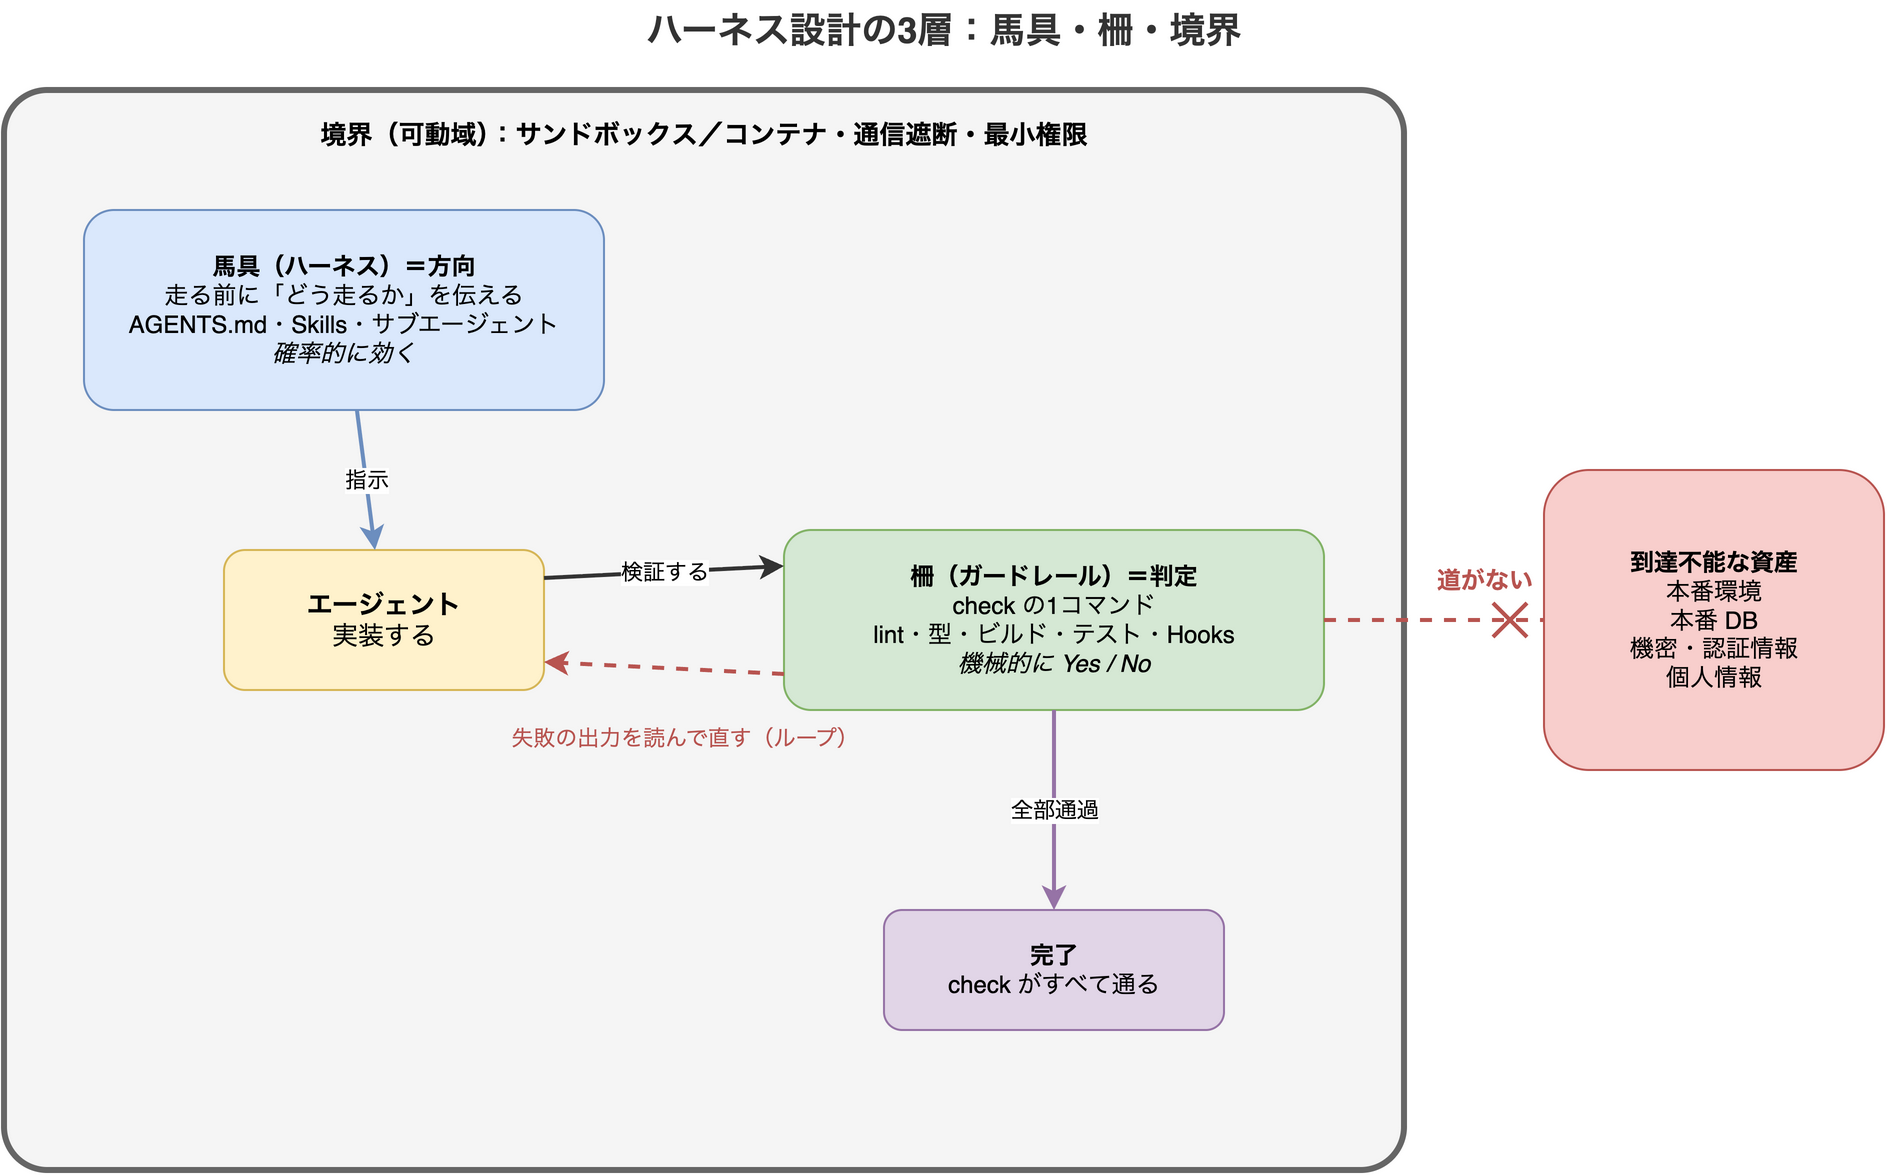
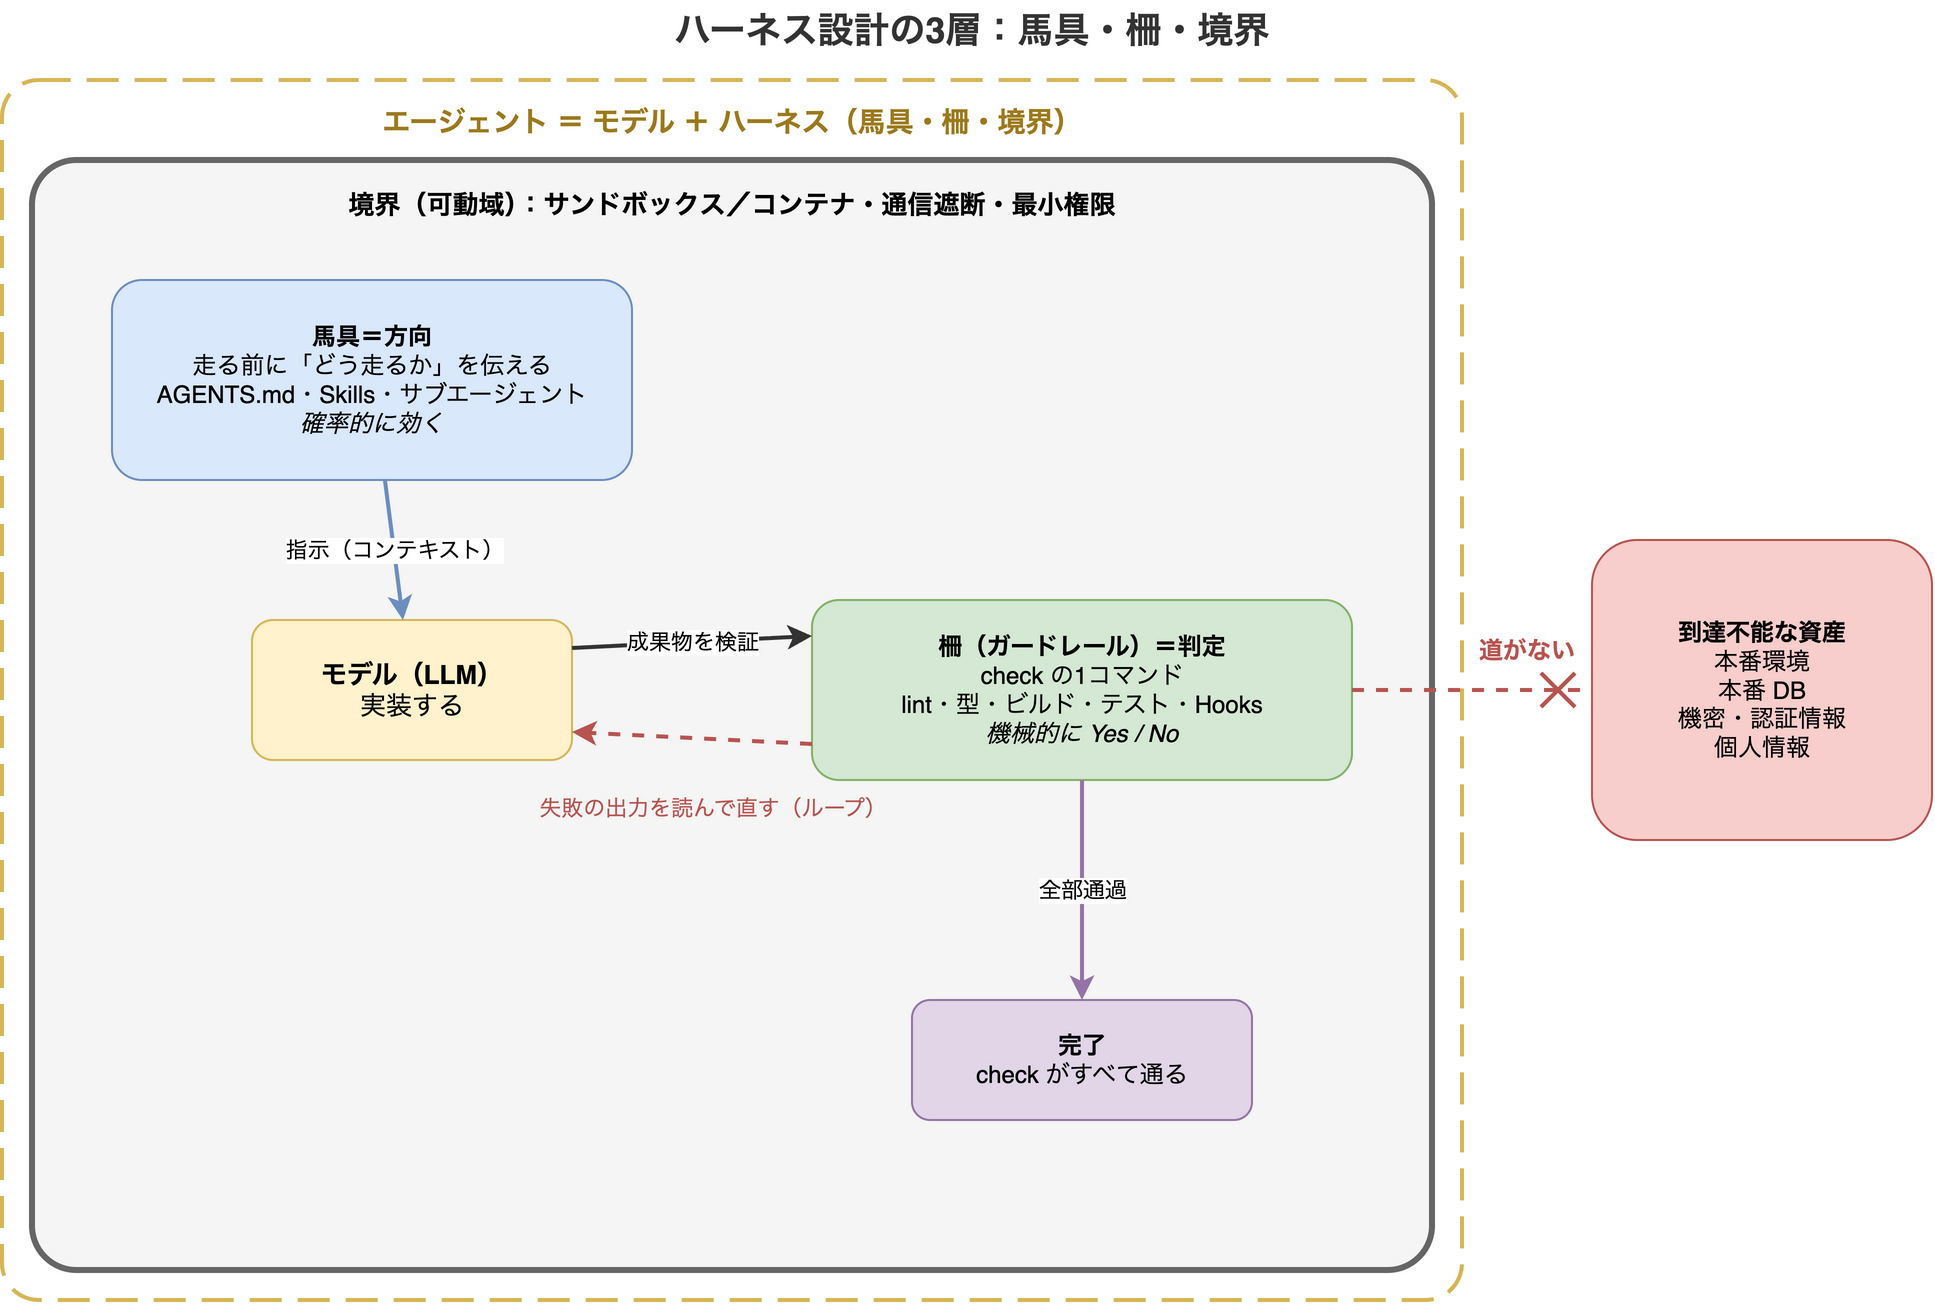
3層の図をエージェント＝モデル＋ハーネスに合わせて修正

diff --git a/content/posts/2026/10/2026-10-25-harness-design-intro-guardrails-boundary.md b/content/posts/2026/10/2026-10-25-harness-design-intro-guardrails-boundary.md
@@ -278,7 +278,9 @@ routes/health.ts を参照
 
 資料がもっとも強調する新しい層が、境界である。柵は漏れることがあり、漏れたときに取り返しのつかない事故もある。そこで、判定するのではなく到達そのものを無くす層を一番外側に置く。
 
-![境界（サンドボックス・通信遮断・最小権限）の内側で、馬具がエージェントに方向を与え、エージェントの成果を柵が判定し、失敗すればエージェントが直してループし、check がすべて通れば完了になる様子と、境界の外にある本番環境・本番 DB・機密情報・個人情報には道がないことを示した図](/blogs/images/harness-design-intro-three-layers.png)
+![エージェントをモデルとハーネス（馬具・柵・境界）の組として外枠で囲み、境界（サンドボックス・通信遮断・最小権限）の内側で、馬具がモデルに方向を与え、モデルの成果物を柵が判定し、失敗すればモデルが直してループし、check がすべて通れば完了になる様子と、境界の外にある本番環境・本番 DB・機密情報・個人情報には道がないことを示した図](/blogs/images/harness-design-intro-three-layers.png)
+
+図の外枠が示すとおり、馬具・柵・境界はどれもエージェントの外にある道具ではなく、エージェントそのものの一部だ（`AGENT = MODEL + HARNESS`）。指示を受けて実装し、柵の結果を読んで直すのはモデルで、そのモデルを3層のハーネスが包む。本文で「エージェントが自分で直す」と書くときも、この組全体の振る舞いを指している。
 
 | 層 | 役割 | 性質 | 道具 |
 |---|---|---|---|
